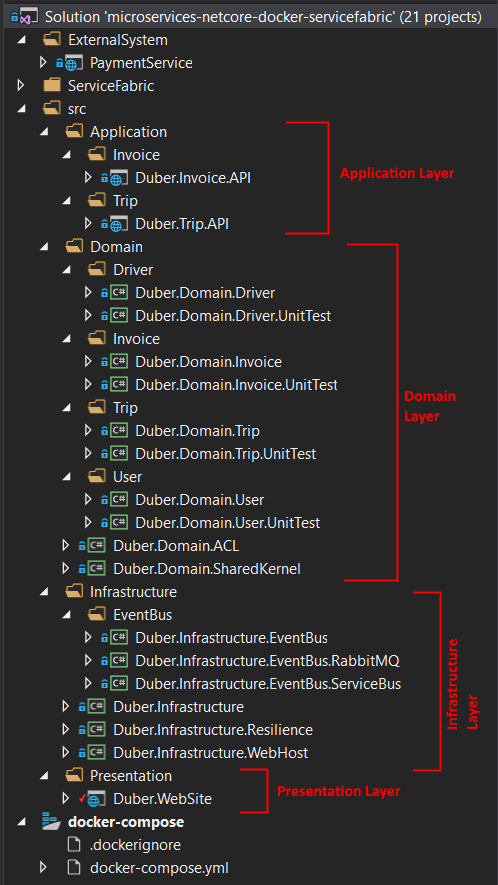
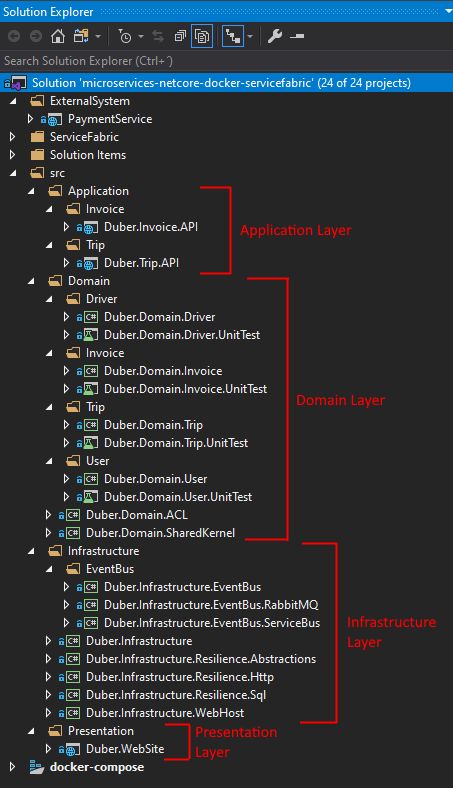
updates microservice part 3 post to reflect the changes after I upgrade the solution to .Net Core 3.1 and other refactors.

Changed region(s): [[0.0, 0.0, 1.0, 1.0]]

diff --git a/_posts/2018-5-1-Microservices-part3.md b/_posts/2018-5-1-Microservices-part3.md
@@ -5,6 +5,7 @@ comments: true
 excerpt: In the previous post, we reviewed an approach, where we have two “different” architectures, one for the development environment and another one for the production environment, why that approach could be useful, and how Docker can help us to implement them. Also, we talked about the benefits of using Docker and why .Net Core is the better option to start working with microservices. Besides, we talked about of the most popular microservices orchestrator and why we choose Azure Service Fabric. Finally, we explained how Command and Query Responsibility Segregation (CQRS) and Event Sourcing comes into play in our architecture. In the end, we made decisions about what technologies we were going to use to implement our architecture, and the most important thing, why. So in this post we’re going to understand the code, finally!
 keywords: "asp.net core, Docker, Docker compose, linux, C#, c-sharp, DDD, .net core, dot net core, .net core 2.0, dot net core 2.0, .netcore2.0, asp.net, entity framework, entity framework core, EF Core, domain driven design, CQRS, command and query responsibility segregation, azure, microsoft azure, azure service fabric, service fabric, cosmos db, mongodb, sql server, rabbitmq, rabbit mq, amqp, asp.net web api, azure service bus, service bus"
 ---
+> I upgraded the solution to .Net Core 3.1, take a look at the [ChangeLog](https://github.com/vany0114/microservices-dotnetcore-docker-servicefabric/blob/master/ChangeLog.md) to see the enhancements!
 
 In the [previous post](http://elvanydev.com/Microservices-part2/), we reviewed an approach, where we have two “different” architectures, one for the development environment and another one for the production environment, why that approach could be useful, and how [Docker](https://www.Docker.com/) can help us to implement them. Also, we talked about the benefits of using Docker and why [.Net Core](https://dotnet.github.io/) is the better option to start working with microservices. Besides, we talked about of the most popular microservice orchestrators and why we choose [Azure Service Fabric](https://azure.microsoft.com/en-us/services/service-fabric/). Finally, we explained how [Command and Query Responsibility Segregation (CQRS)](https://martinfowler.com/bliki/CQRS.html) and [Event Sourcing](https://martinfowler.com/eaaDev/EventSourcing.html) comes into play in our architecture. In the end, we made decisions about what technologies we were going to use to implement our architecture, and the most important thing, why. So in this post we're going to understand the code, finally!
 
@@ -13,8 +14,8 @@ In the [previous post](http://elvanydev.com/Microservices-part2/), we reviewed a
 #### Prerequisites and Installation Requirements
 1. Install [Docker for Windows](https://docs.docker.com/docker-for-windows/install/).
 2. Install [.NET Core SDK](https://www.microsoft.com/net/download/windows)
-3. Install [Visual Studio 2017](https://www.visualstudio.com/downloads/) 15.7 or later.
-4. Share drives in Docker settings (In order to deploy and debug with Visual Studio 2017)
+3. Install [Visual Studio 2019](https://www.visualstudio.com/downloads/) 16.4 or later.
+4. Share drives in Docker settings (In order to deploy and debug with Visual Studio 2019)
 5. Clone this [Repo](https://github.com/vany0114/microservices-dotnetcore-docker-servicefabric)
 6. Set `docker-compose` project as startup project. (it's already set by default)
 7. Press F5 and that's it!
@@ -63,7 +64,7 @@ Now that we're talking about dependencies, it's important to clarify the *Shared
 
 [ACL (Anti-Corruption layer)](https://docs.microsoft.com/en-us/azure/architecture/patterns/anti-corruption-layer) is also a concept from DDD, and it help us to communicate with other systems or sub-systems which obviously are outside of our domain model, such as legacy or external systems, keeping our domain consistent and avoiding the domain becomes [anemic](https://martinfowler.com/bliki/AnemicDomainModel.html). So, basically this layer translates our domain requests as the other system requires them and translates the response from the external system back in terms of our domain, keeping our domain isolated from other systems and consistent. So, to make it happen, we're just using an [Adapter](https://en.wikipedia.org/wiki/Adapter_pattern) and a Translator/Mapper and that's it (you will need an adapter per sub-system/external-system) also, you might need a Facade if you interact with many systems to encapsulate those complexity there and keep simple the communication from the domain perspective.
 
-Let's take a look at our Adapter (don't worry about  `_httpInvoker` object, we're going to explain it later)
+Let's take a look at our Adapter:
 
 ```c#
 public class PaymentServiceAdapter : IPaymentServiceAdapter
@@ -72,22 +73,15 @@ public class PaymentServiceAdapter : IPaymentServiceAdapter
 
     public async Task<PaymentInfo> ProcessPaymentAsync(int userId, string reference)
     {
-        // consumes Payment system
-        var response = await _httpInvoker.InvokeAsync(async () =>
-        {
-            var client = new RestClient(_paymentServiceBaseUrl);
-            var request = new RestRequest(ThirdPartyServices.Payment.PerformPayment(), Method.POST);
-            request.AddUrlSegment(nameof(userId), userId);
-            request.AddUrlSegment(nameof(reference), reference);
+        var uri = new Uri(
+            new Uri(_paymentServiceBaseUrl),
+            string.Format(ThirdPartyServices.Payment.PerformPayment(), userId, reference));
 
-            return await client.ExecuteTaskAsync(request);
-        });
+        var request = new HttpRequestMessage(HttpMethod.Post, uri);
+        var response = await _httpClient.SendAsync(request);
 
-        if (response.StatusCode != HttpStatusCode.OK)
-            throw new InvalidOperationException("There was an error trying to perform the payment.", response.ErrorException);
-
-        // translates payment system response to our domain model
-        return PaymentInfoTranslator.Translate(response.Content);
+        response.EnsureSuccessStatusCode();
+        return PaymentInfoTranslator.Translate(await response.Content.ReadAsStringAsync());
     }
 }
 ```
@@ -146,7 +140,7 @@ As you can see it's pretty simple, it just to simulate the external payment syst
 
 ### Implementing CQRS + Event Sourcing
 
-As we know, we decided to use CQRS and Event Sourcing in our *Trip* microservice, so first of all, I have to say that I was looking for a good package to help me to not re-invent the wheel, and I found these nice packages, [Weapsy.CQRS](https://github.com/Weapsy/Weapsy.CQRS) and [Weapsy.Cqrs.EventStore.CosmosDB.MongoDB](https://www.nuget.org/packages/Weapsy.Cqrs.EventStore.CosmosDB.MongoDB) which helped me a lot and by the way, they're very easy to use. Let's get started with the API, that's where the flow start.
+As we know, we decided to use CQRS and Event Sourcing in our *Trip* microservice, so first of all, I have to say that I was looking for a good package to help me to not re-invent the wheel, and I found these nice packages, [Kledex](https://github.com/lucabriguglia/Kledex)(formerly Weapsy.CQRS/OpenCQRS) and [Kledex.Store.Cosmos.Mongo](https://www.nuget.org/packages/Kledex.Store.Cosmos.Mongo) which helped me a lot and by the way, they're very easy to use. Let's get started with the API, that's where the flow start.
 
 ```c#
 [Route("api/v1/[controller]")]
@@ -162,28 +156,34 @@ public class TripController : Controller
     /// <param name="command"></param>
     /// <returns>Returns the newly created trip identifier.</returns>
     /// <response code="201">Returns the newly created trip identifier.</response>
-    [Route("create")]
     [HttpPost]
     [ProducesResponseType(typeof(Guid), (int)HttpStatusCode.Created)]
     [ProducesResponseType((int)HttpStatusCode.BadRequest)]
     [ProducesResponseType((int)HttpStatusCode.InternalServerError)]
     public async Task<IActionResult> CreateTrip([FromBody]ViewModel.CreateTripCommand command)
     {
-        ...
-        await _dispatcher.SendAndPublishAsync<CreateTripCommand, Domain.Trip.Model.Trip>(domainCommand);
+        // TODO: make command immutable
+        // BadRequest and InternalServerError could be throw in HttpGlobalExceptionFilter
+        var tripId = Guid.NewGuid();
+        var domainCommand = _mapper.Map<CreateTripCommand>(command);
+        domainCommand.AggregateRootId = tripId;
+        domainCommand.Source = Source;
+        domainCommand.UserId = _fakeUser;
+
+        await _dispatcher.SendAsync(domainCommand);
         return Created(HttpContext.Request.GetUri().AbsoluteUri, tripId);
     }
 }
 ```
 
-The most important thing here is the `_dispatcher` object, which takes care of queuing our commands (in this case, in memory), triggers the command handlers, which interacts with our domain, through the Aggregates, and then, publish our domain events triggered from Aggregates and Entities in order to publish them in our Message Broker. No worries if it sounds kind of complicated, let's check every step.
+The most important thing here is the `_dispatcher` object, which takes care of queuing our commands (in this case, in memory), triggers the command handlers, which interacts with our domain, through the Aggregates, and then, publish our domain events triggered from Aggregates/Entities in order to publish them in our Message Broker. No worries if it sounds kind of complicated, let's check every step.
 
 * **Command Handlers**
 
 ```c#
-public class CreateTripCommandHandlerAsync : ICommandHandlerWithAggregateAsync<CreateTripCommand>
+public class CreateTripCommandHandlerAsync : ICommandHandlerAsync<CreateTripCommand>
 {
-    public async Task<IAggregateRoot> HandleAsync(CreateTripCommand command)
+    public async Task<CommandResponse> HandleAsync(CreateTripCommand command)
     {
         var trip = new Model.Trip(
             command.AggregateRootId,
@@ -197,12 +197,15 @@ public class CreateTripCommandHandlerAsync : ICommandHandlerWithAggregateAsync<C
             command.Model);
         
         await Task.CompletedTask;
-        return trip;
+        return new CommandResponse
+        {
+            Events = trip.Events
+        };
     }
 }
 ```
 
-So, this is our command handler where we manage the creation of a Trip when the `Dispatcher` triggers it. As you can see, we explicitly create a `Trip` object, but it's beyond that, since it's not just a regular object, is an Aggregate. Let's take a look at what happens into the Aggregate.
+So, this is our command handler where we manage the creation of a Trip when the `Dispatcher` triggers it. As you can see, we explicitly create a `Trip` object, but it's beyond that, since it's not just a regular object, it's an Aggregate. Let's take a look at what happens into the Aggregate.
 
 * **Aggregate**
 
@@ -270,14 +273,14 @@ public class TripCreatedDomainEventHandlerAsync : IEventHandlerAsync<TripCreated
 }
 ```
 
-Therefore, after a Trip is created we want to notify all the interested parties through the `Event Bus`. We need to map the `TripCreatedDomainEvent` to `TripCreatedIntegrationEvent` the first one is an implementation of *Weapsy.CQRS* library and the second one, it's the implementation of the integration events which our Event Bus expects.
+Therefore, after a Trip is created we want to notify all the interested parties through the `Event Bus`. We need to map the `TripCreatedDomainEvent` to `TripCreatedIntegrationEvent` the first one is an implementation of *Kledex* library and the second one, it's the implementation of the integration events which our Event Bus expects.
 
 > It's important to remember that using an Event Store we don't save the object state as usual in a RDBMS or NoSQL database, we save a series of events that enable us to retrieve the current state of the object or even a certain state at some point in time.
 
-When we retrieve an object from our Event Store, we're re-building the object with all the past events, behind the scenes. That's why we have some methods called `Apply` into the aggregates, because that's how, in this case, *Weapsy.Cqrs.EventStore* re-creates the object, calling these methods for every event of the aggregate.
+When we retrieve an object from our Event Store, we're re-building the object with all the past events, behind the scenes. That's why we have some methods called `Apply` into the aggregates, because that's how, in this case, *Kledex.Store.Cosmos.Mongo* re-creates the object, calling these methods for every event of the aggregate.
 
 ```c#
-public class UpdateTripCommandHandlerAsync : ICommandHandlerWithAggregateAsync<UpdateTripCommand>
+public class UpdateTripCommandHandlerAsync : ICommandHandlerAsync<UpdateTripCommand>
 {
     private readonly IRepository<Model.Trip> _repository;
 
@@ -308,7 +311,7 @@ public class Trip : AggregateRoot
 
 * **Domain Event Handlers with MediatR**
 
-As I said earlier, we are using `Weapsy.CQRS` in our *Trip* microservice to manage CQRS stuff, among them, domain events/handlers. But we still have to manage domain events/handlers in our *Invoice* microservice, that's why we're going to use [MediatR](https://github.com/jbogard/MediatR) to manage them. So, the idea is the same as described earlier, we have domain events which are dispatched through a dispatcher to all interested parties. So, the idea is pretty simple, we have an abstraction of an `Entity` which is the one that publishes domain events in our domain model (remember, an `Aggregate` is an `Entity` as well). So, every time an *Entity* calls `AddDomainEvent` method, we're just storing the event in memory.
+As I said earlier, we are using `Kledex` in our *Trip* microservice to manage CQRS stuff, among them, domain events/handlers. But we still have to manage domain events/handlers in our *Invoice* microservice, that's why we're going to use [MediatR](https://github.com/jbogard/MediatR) to manage them. So, the idea is the same as described earlier, we have domain events which are dispatched through a dispatcher to all interested parties. So, the idea is pretty simple, we have an abstraction of an `Entity` which is the one that publishes domain events in our domain model (remember, an `Aggregate` is an `Entity` as well). So, every time an *Entity* calls `AddDomainEvent` method, we're just storing the event in memory.
 
 ```c#
 public abstract class Entity
@@ -381,7 +384,7 @@ Handling temporary errors properly in a distributed system is a key piece in ord
 services.AddDbContext<UserContext>(options =>
 {
     options.UseSqlServer(
-        Configuration["ConnectionString"],
+        configuration["ConnectionStrings:WebsiteDB"],
         sqlOptions =>
         {
             ...
@@ -391,173 +394,37 @@ services.AddDbContext<UserContext>(options =>
 ```
 Also, you can customize [your own execution strategies](https://docs.microsoft.com/en-us/ef/core/miscellaneous/connection-resiliency#custom-execution-strategy) if you need it.
 
-* **Taking advantage of Polly:** [Polly](https://github.com/App-vNext/Polly) it's a pretty cool library which help us to create our own policies in order to manage strategies for transient errors, such as retry, circuit breaker, timeout, fallback, etc. So, in our case, we're using *Polly* to improve the Http communication in order to communicate our frontend with our *Trip* microservice, and as you saw earlier, to communicate the *Invoice* microservice with the *Payment* external system. So, I made a very basic `ResilientHttpInvoker`, using [RestSharp](http://restsharp.org), which is a great Http client.
+* **Taking advantage of Polly:** [Polly](https://github.com/App-vNext/Polly) it's a pretty cool library which help us to create our own policies in order to manage strategies for transient errors, such as retry, circuit breaker, timeout, fallback, etc. So, in our case, we're using *Polly* to improve the Http communication in order to communicate our frontend with our *Trip* microservice, and as you saw earlier, to communicate the *Invoice* microservice with the *Payment* external system. So, I followed the pattern I proposed in my other post [Building resilient applications with Polly](http://elvanydev.com/resilience-with-polly/) in order to build a specific resilience strategy, in our case an Azure SQL Server one. We're also using and [HttpClient + Polly](https://docs.microsoft.com/en-us/dotnet/architecture/microservices/implement-resilient-applications/implement-http-call-retries-exponential-backoff-polly) to make more resilient the HTTP calls.
 
 ```c#
-public class ResilientHttpInvoker
+// Resilient Async SQL Executor configuration.
+services.AddSingleton<IPolicyAsyncExecutor>(sp =>
 {
-    ...
+    var sqlPolicyBuilder = new SqlPolicyBuilder();
+    return sqlPolicyBuilder
+        .UseAsyncExecutor()
+        .WithDefaultPolicies()
+        .Build();
+});
 
-    public Task<IRestResponse> InvokeAsync(Func<Task<IRestResponse>> action)
-    {
-        return HttpInvoker(async () =>
-        {
-            var response = await action.Invoke();
+// Create (and register with DI) a policy registry containing some policies we want to use.
+var policyRegistry = services.AddPolicyRegistry();
+policyRegistry[ResiliencePolicy] = GetHttpResiliencePolicy(configuration);
 
-            // raise exception if HttpResponseCode 500 
-            // needed for circuit breaker to track fails
-            if (response.StatusCode == HttpStatusCode.InternalServerError)
-            {
-                throw new HttpRequestException();
-            }
-
-            return response;
-        });
-    }
-
-    private async Task<T> HttpInvoker<T>(Func<Task<T>> action)
-    {
-        // Executes the action applying all the policies defined in the wrapper
-        var policyWrap = Policy.WrapAsync(_policies.ToArray());
-        return await policyWrap.ExecuteAsync(action);
-    }
-}
-```
-And we have a factory who is in charge of creating the `ResilientHttpInvoker` with the policies that we need to take care of.
-```c#
-public class ResilientHttpInvokerFactory
+// Resilient Http Invoker onfiguration.
+// Register a typed client via HttpClientFactory, set to use the policy we placed in the policy registry.
+services.AddHttpClient<ResilientHttpClient>(client =>
 {
-    ...
-
-    public ResilientHttpInvoker CreateResilientHttpClient()
-        => new ResilientHttpInvoker(CreatePolicies());
-
-    private Policy[] CreatePolicies()
-        => new Policy[]
-        {
-            Policy.Handle<HttpRequestException>()
-                .WaitAndRetryAsync(
-                    // number of retries
-                    _retryCount,
-                    // exponential backofff
-                    retryAttempt => TimeSpan.FromSeconds(Math.Pow(2, retryAttempt)),
-                    // on retry
-                    (exception, timeSpan, retryCount, context) =>
-                    {
-                        var msg = $"Retry {retryCount} implemented with Polly's RetryPolicy " +
-                                    $"of {context.PolicyKey} " +
-                                    $"at {context.OperationKey}, " +
-                                    $"due to: {exception}.";
-                        _logger.LogWarning(msg);
-                        _logger.LogDebug(msg);
-                    }),
-            Policy.Handle<HttpRequestException>()
-                .CircuitBreakerAsync( 
-                    // number of exceptions before breaking circuit
-                    _exceptionsAllowedBeforeBreaking,
-                    // time circuit opened before retry
-                    TimeSpan.FromMinutes(1),
-                    (exception, duration) =>
-                    {
-                        // on circuit opened
-                        _logger.LogTrace("Circuit breaker opened");
-                    },
-                    () =>
-                    {
-                        // on circuit closed
-                        _logger.LogTrace("Circuit breaker reset");
-                    })
-        };
-}
-```
-Basically, we are retrying `_retryCount` times, when an `HttpRequestException` occurs, and we're using an exponential backofff to determine how long we should wait between each retry, e.g: `2 ^ 1 = 2 seconds then, 2 ^ 2 = 4 seconds then, etc.` But, we don't want to wait and retry forever and spend valuable resources if it turned out being a non-transient error, that's why we are using a [CircuitBreaker](https://martinfowler.com/bliki/CircuitBreaker.html), that basically break the circuit after the specified number (`_exceptionsAllowedBeforeBreaking`) of consecutive `HttpRequestException`s and keep circuit broken for one minute, which means, every request within that period will not be executed, instead the call will fail fast with the last exception occurred.
-
-The other place where we're using *Polly* is in our `InvoiceContext`, which is implemented with [Dapper](https://github.com/StackExchange/Dapper), so I made a simple `ResilientExecutor<>` that we can use where we want it, of course with the right policies.
-
-```c#
-public class ResilientExecutor<ExecutorType>
-{
-    ...
-
-    public Task<T> ExecuteAsync<T>(Func<Task<T>> action)
-    {
-        return Executor(async () =>
-        {
-            var response = await action.Invoke();
-            return response;
-        });
-    }
-
-    private async Task<T> Executor<T>(Func<Task<T>> action)
-    {
-        // Executes the action applying all the policies defined in the wrapper
-        var policyWrap = Policy.WrapAsync(_policies.ToArray());
-        return await policyWrap.ExecuteAsync(action);
-    }
-}
-```
-So, we're going to have a specific factory to create our `ResilientExecutor<>`, in this case, we need it to handle the `SqlException`s.
-
-```c#
-public class ResilientSqlExecutorFactory : ISqlExecutor
-{
-    ...
-
-    public ResilientExecutor<ISqlExecutor> CreateResilientSqlClient()
-        => new ResilientExecutor<ISqlExecutor>(CreatePolicies());
-
-    /// <summary>
-    /// Consider include in your policies all exceptions as you needed.
-    /// https://docs.microsoft.com/en-us/azure/sql-database/sql-database-develop-error-messages
-    /// </summary>
-    private Policy[] CreatePolicies()
-        => new Policy[]
-        {
-            Policy.Handle<SqlException>(ex => ex.Number == 40613)
-                .Or<SqlException>(ex => ex.Number == 40197)
-                .Or<SqlException>(ex => ex.Number == 40501)
-                .Or<SqlException>(ex => ex.Number == 49918)
-                .WaitAndRetryAsync(
-                    // number of retries
-                    _retryCount,
-                    // exponential backofff
-                    retryAttempt => TimeSpan.FromSeconds(Math.Pow(2, retryAttempt)),
-                    // on retry
-                    (exception, timeSpan, retryCount, context) =>
-                    {
-                        var msg = $"Retry {retryCount} implemented with Polly's RetryPolicy " +
-                                    $"of {context.PolicyKey} " +
-                                    $"at {context.OperationKey}, " +
-                                    $"due to: {exception}.";
-                        _logger.LogWarning(msg);
-                        _logger.LogDebug(msg);
-                    }),
-            Policy.Handle<SqlException>()
-                .CircuitBreakerAsync( 
-                    // number of exceptions before breaking circuit
-                    _exceptionsAllowedBeforeBreaking,
-                    // time circuit opened before retry
-                    TimeSpan.FromMinutes(1),
-                    (exception, duration) =>
-                    {
-                        // on circuit opened
-                        _logger.LogTrace("Circuit breaker opened");
-                    },
-                    () =>
-                    {
-                        // on circuit closed
-                        _logger.LogTrace("Circuit breaker reset");
-                    })
-        };
-}
+    client.Timeout = TimeSpan.FromSeconds(50);
+}).AddPolicyHandlerFromRegistry(ResiliencePolicy);
 ```
 
-In this case, we're handling a very specific `SqlException`s, which are the most common [SQL transient errors](https://docs.microsoft.com/en-us/azure/sql-database/sql-database-develop-error-messages).
+The other place where we're using *Polly* is in our `InvoiceContext`, which is implemented with [Dapper](https://github.com/StackExchange/Dapper).In this case, we're handling a very specific `SqlException`s throug our [SqlPolicyBuilder](https://github.com/vany0114/microservices-dotnetcore-docker-servicefabric/blob/master/src/Infrastructure/Duber.Infrastructure.Resilience.Sql/SqlPolicyBuilder.cs), which are the most common [SQL transient errors](https://docs.microsoft.com/en-us/azure/sql-database/sql-database-develop-error-messages).
 
 ```c#
 public class InvoiceContext : IInvoiceContext
 {
-    private readonly ResilientExecutor<ISqlExecutor> _resilientSqlExecutor;
+    private readonly IPolicyAsyncExecutor _resilientSqlExecutor;
     ...
 
     public async Task<IEnumerable<T>> QueryAsync<T>(string sql, object parameters = null, int? timeOut = null, CommandType? commandType = null)
